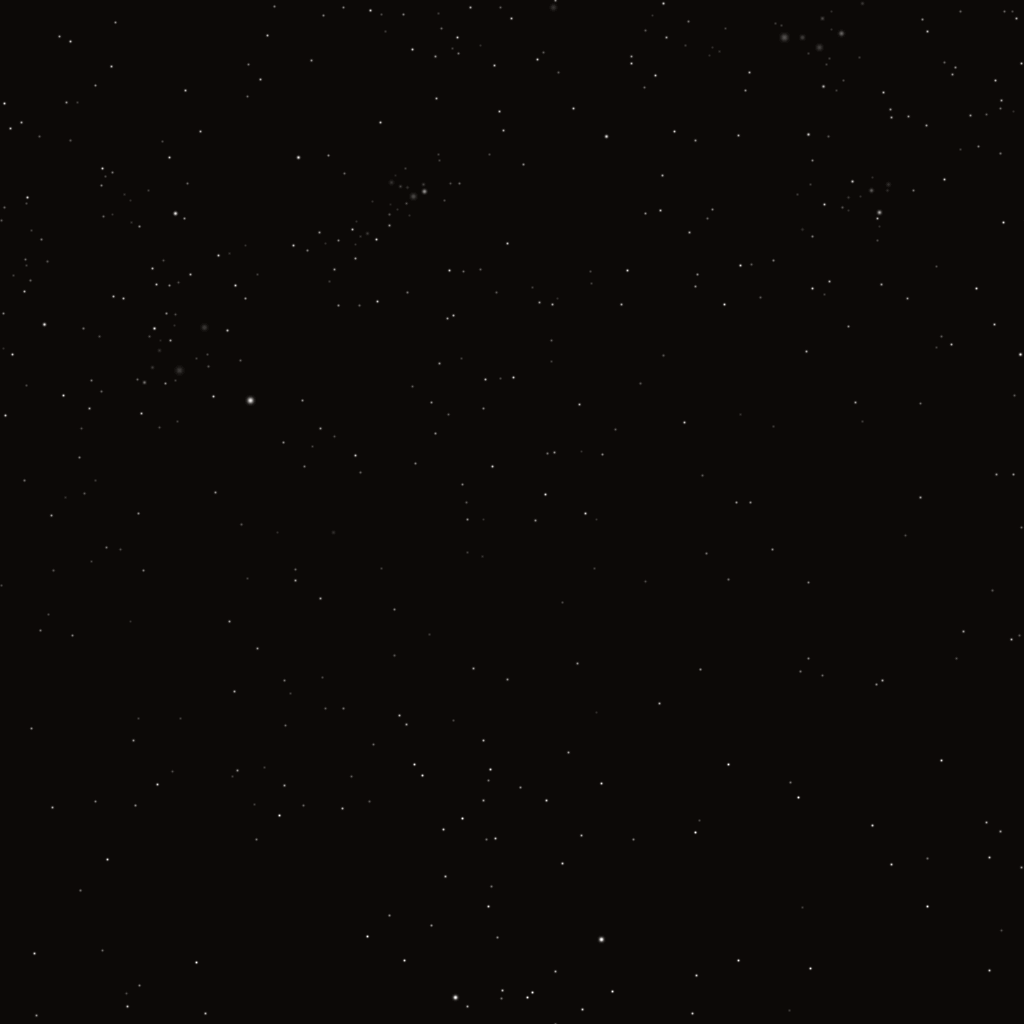
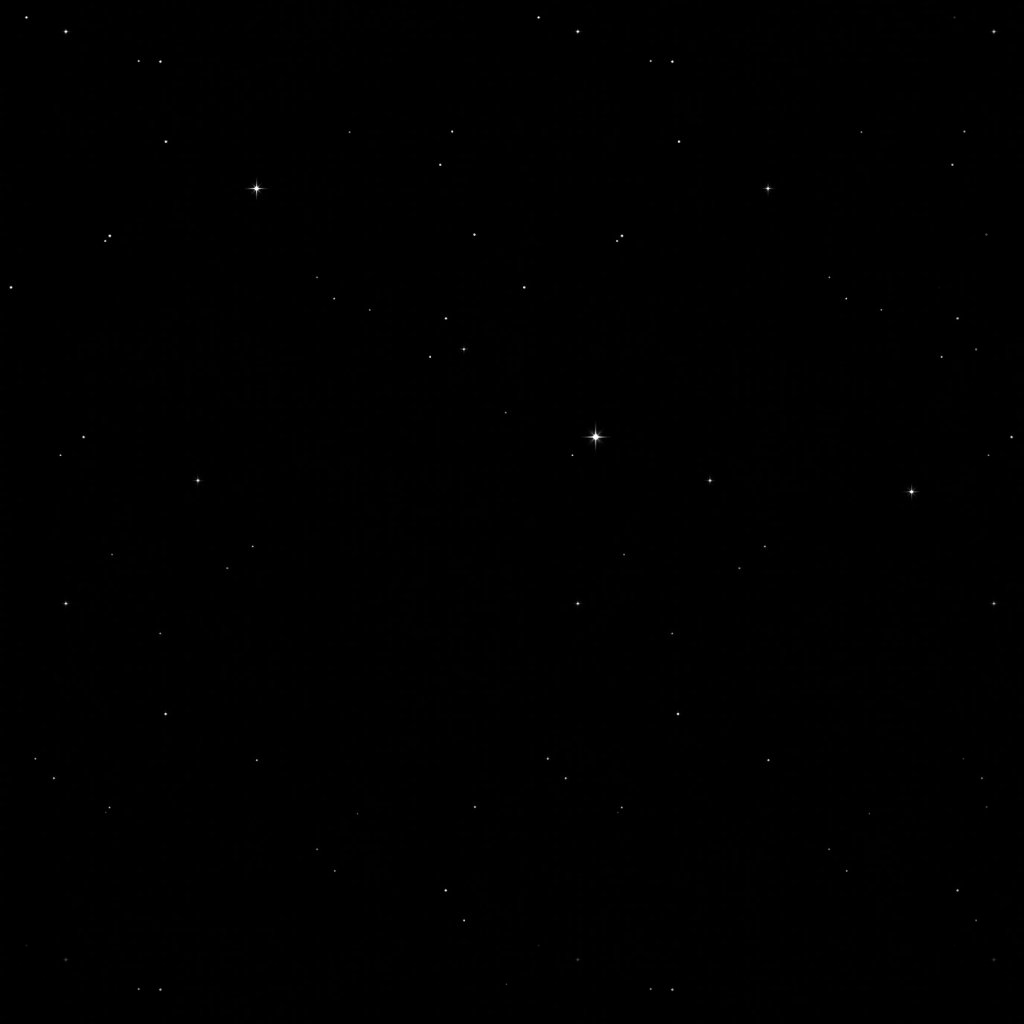
Footer star tile: lossless crop of the owner-picked starfield
1024x1024 crop of the picked starfield image (source x0=0, y0=32),
edges cross-blended for a seamless wrap, interior pixels untouched.
Lossless WebP, 24126 bytes; TestStarTileStaysTiny budget raised to
24576 for the lossless encode. Version token updated to the new
file hash.

Changed region(s): [[0.5625, 0.4062, 0.5938, 0.4375]]

diff --git a/internal/app/static/style.css b/internal/app/static/style.css
@@ -1481,7 +1481,7 @@ footer {
      raster (a crop of the master wallpaper's own star field),
      static and repeating. */
   background: rgba(11, 11, 11, 0.85);
-  background-image: url("/static/stars-tile.webp?v=dbb246864ab41384");
+  background-image: url("/static/stars-tile.webp?v=b6e2235b7c529ea9");
   -webkit-backdrop-filter: blur(18px);
   backdrop-filter: blur(18px);
   border-top: 1px solid #262626;

diff --git a/internal/app/ui_footer_test.go b/internal/app/ui_footer_test.go
@@ -64,14 +64,16 @@ func TestStickyFooterShell(t *testing.T) {
 
 // TestStarTileStaysTiny pins the tile's size contract: it is a
 // footer background, fetched once and cached forever, and must
-// stay a sliver next to the wallpaper tiers.
+// stay a sliver next to the wallpaper tiers. The tile is a
+// lossless crop of a photographic star field, so its budget is
+// the lossless encode's size with headroom: 24 KiB.
 func TestStarTileStaysTiny(t *testing.T) {
 	raw, err := fs.ReadFile(staticFS, "static/stars-tile.webp")
 	if err != nil {
 		t.Fatalf("read stars-tile.webp: %v", err)
 	}
-	if len(raw) > 8192 {
-		t.Errorf("stars-tile.webp is %d bytes; the footer tile's budget is 8192", len(raw))
+	if len(raw) > 24576 {
+		t.Errorf("stars-tile.webp is %d bytes; the footer tile's budget is 24576", len(raw))
 	}
 	if len(raw) < 4 || string(raw[:4]) != "RIFF" {
 		t.Error("stars-tile.webp is not a WebP raster")
